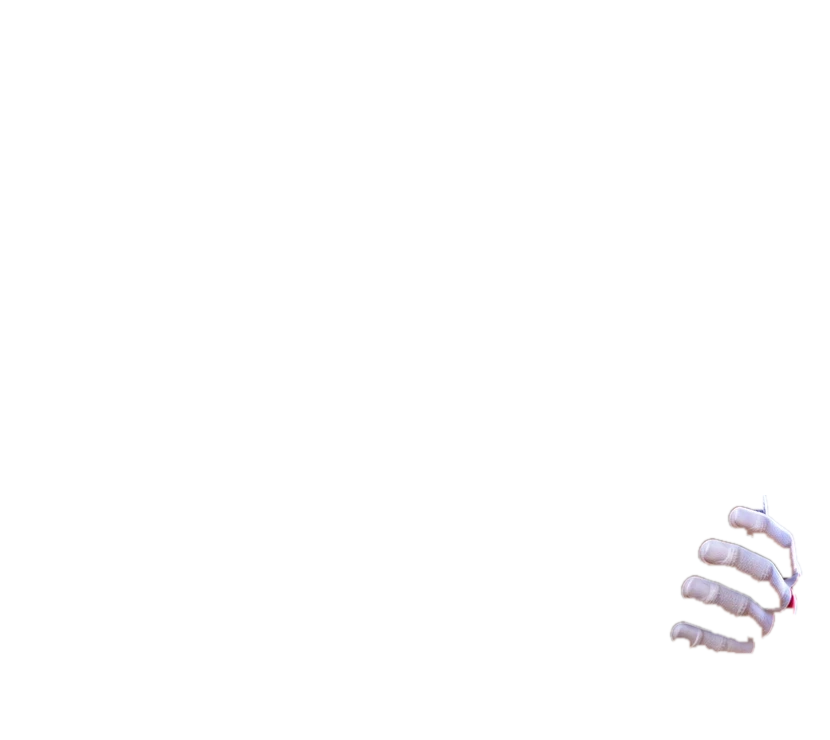
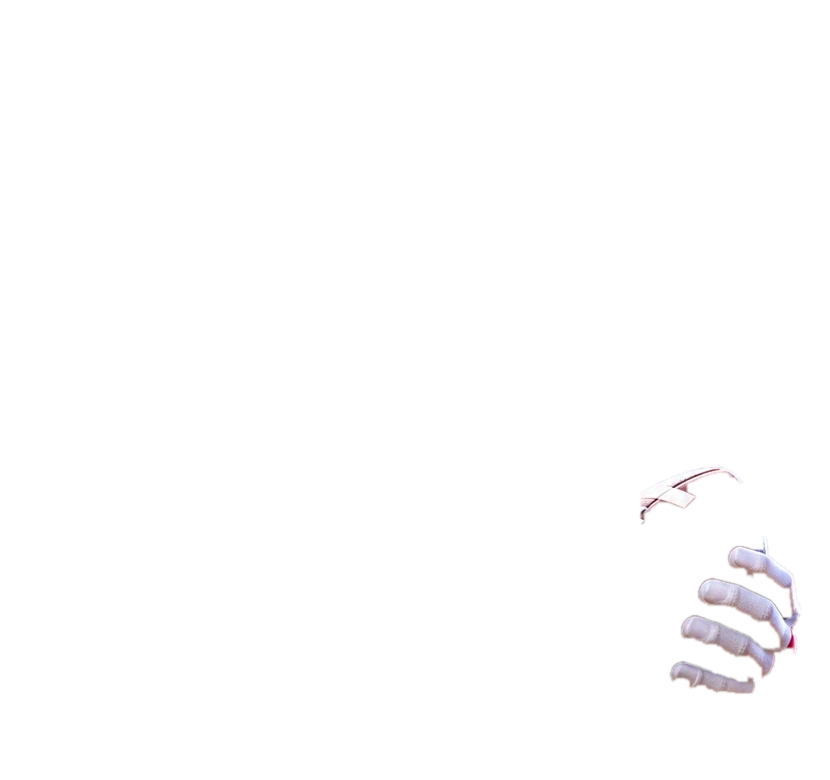
Mascot holds a phone with the QR code instead of the ball; round off the helmet top

Changed region(s): [[0.7831, 0.6838, 0.9639, 0.9014], [0.753, 0.5905, 0.8735, 0.6838]]

diff --git a/index.html b/index.html
@@ -103,15 +103,33 @@ p { margin: 0; }
 .store small { font-size: 10px; color: #c9cede; }
 .store b { font-size: 18px; font-weight: 600; }
 
-/* The mascot holds the QR card: body, then the card, then his glove fingers on top so he grips it */
+/* The mascot holds a phone where the ball was, at the ball's angle: body, then the phone, then his glove fingers
+   on top so they wrap round its edge */
 .play { display: grid; grid-template-columns: minmax(0, 1.15fr) minmax(0, .85fr); gap: 40px; align-items: center; padding-block: 20px 80px; }
 .holder { position: relative; width: 100%; max-width: 600px; justify-self: end; }
 .holder img { display: block; width: 100%; height: auto; }
-.holder-glove { position: absolute; inset: 0; pointer-events: none; }
-.qr-card { position: absolute; left: 60%; top: 51%; width: 25%; padding: 4% 3.4% 3%; border-radius: 12px; background: #fff; transform: rotate(-7deg); box-shadow: 0 18px 40px -12px rgba(0,0,0,.7), 0 0 0 3px rgba(247,183,51,.9); display: grid; gap: 8px; justify-items: center; }
+.holder-glove { position: absolute; inset: 0; pointer-events: none; filter: drop-shadow(-2px 3px 3px rgba(0,0,0,.45));
+  /* only the fingertips that curl round the phone's right edge; the rest of the hand is behind it */
+  clip-path: polygon(123.3% 22%, 195.6% 22%, 126% 140.5%, 53.8% 140.5%); }
+.phone {
+  position: absolute; left: 69%; top: 57.3%; width: 22.9%; height: 37.2%;
+  transform: rotate(32deg); border-radius: 16% / 10.5%; padding: 1.15%;
+  background: linear-gradient(150deg, #3A4467 0%, #151B33 45%, #070A16 100%);
+  box-shadow: inset 0 0 0 1px rgba(255,255,255,.22), inset 0 1px 0 rgba(255,255,255,.35), -12px 16px 26px -6px rgba(0,0,0,.65);
+}
+.screen {
+  position: relative; height: 100%; border-radius: 12% / 8%; overflow: hidden;
+  background: linear-gradient(170deg, #FFFFFF 0%, #EEF1F8 100%);
+  display: grid; align-content: center; justify-items: center; gap: 7%; padding: 14% 11%;
+}
+.screen::after { /* stadium light catching the glass */
+  content: ""; position: absolute; inset: 0; pointer-events: none;
+  background: linear-gradient(118deg, rgba(255,255,255,0) 30%, rgba(255,255,255,.22) 38%, rgba(255,255,255,0) 52%), linear-gradient(180deg, rgba(10,22,64,0) 70%, rgba(10,22,64,.08));
+}
+.notch { position: absolute; top: 3.5%; left: 50%; width: 30%; height: 3.2%; transform: translateX(-50%); border-radius: 99px; background: #070A16; }
 .qr-code { width: 100%; aspect-ratio: 1; }
 .qr-code svg { width: 100%; height: 100%; display: block; }
-.qr-card b { font: 900 clamp(11px, 1.6vw, 18px)/1 var(--f-display); color: var(--night); text-transform: uppercase; letter-spacing: .04em; white-space: nowrap; }
+.screen b { font: 900 clamp(9px, 1.35vw, 15px)/1 var(--f-display); color: var(--night); text-transform: uppercase; letter-spacing: .05em; white-space: nowrap; }
 .get-side { display: grid; gap: 18px; justify-items: start; max-width: 380px; }
 .get-side h2 { margin: 0; font: 900 clamp(36px, 4.5vw, 54px)/.95 var(--f-display); text-transform: uppercase; }
 .get-side > p { color: var(--muted); }
@@ -197,12 +215,15 @@ body { margin: 0; } img { max-width: 100%; } [hidden] { display: none !important
 
   <div class="wrap play" id="get">
     <div class="holder">
-      <img class="holder-body" src="mascot.webp" alt="The ASF mascot holding up the QR code for the app" width="830" height="740">
-      <div class="qr-card">
-        <div class="qr-code" id="qr" role="img" aria-label="QR code to download the ASF.Pro app"></div>
-        <b>Scan to play</b>
+      <img class="holder-body" src="mascot.webp" alt="The ASF mascot holding a phone that shows the QR code for the app" width="830" height="780">
+      <div class="phone">
+        <div class="screen">
+          <i class="notch"></i>
+          <div class="qr-code" id="qr" role="img" aria-label="QR code to download the ASF.Pro app"></div>
+          <b>Scan to play</b>
+        </div>
       </div>
-      <img class="holder-glove" src="mascot-glove.webp" alt="" width="830" height="740">
+      <img class="holder-glove" src="mascot-glove.webp" alt="" width="830" height="780">
     </div>
     <div class="get-side">
       <h2>Get the app</h2>
@@ -352,7 +373,7 @@ body { margin: 0; } img { max-width: 100%; } [hidden] { display: none !important
     let d = "";
     for (let r = 0; r < n; r++) for (let c = 0; c < n; c++) if (qr.isDark(r, c)) d += `M${c} ${r}h1v1h-1z`;
     document.getElementById("qr").innerHTML = `<svg viewBox="0 0 ${n} ${n}" shape-rendering="crispEdges"><path d="${d}" fill="#050C22"/></svg>`;
-  } catch (e) { document.querySelector(".qr-card").hidden = true; }
+  } catch (e) { document.querySelector(".phone").hidden = true; }
 })();
 </script>
 

diff --git a/README.md b/README.md
@@ -12,10 +12,10 @@ python3 -m http.server 8000
 
 | File | What |
 |---|---|
-| `index.html` | The page: logo hero, the mascot holding the app's QR code, App Store link, and the footer pages |
+| `index.html` | The page: logo hero, the mascot holding a phone with the app's QR code, App Store link, and the footer pages |
 | `legal.js` | Text for Terms, Privacy, Responsible Play, Support and Contact (opened by `#terms`, `#privacy`, …) |
 | `asf-logo.webp` | The ASF logo, cut out of the brand poster |
-| `mascot.webp`, `mascot-glove.webp` | The mascot cut out of the brand poster, and his glove fingers drawn over the QR card |
+| `mascot.webp`, `mascot-glove.webp` | The mascot cut out of the brand poster, and the fingertips drawn over the phone he holds |
 
 ## Before going live
 
